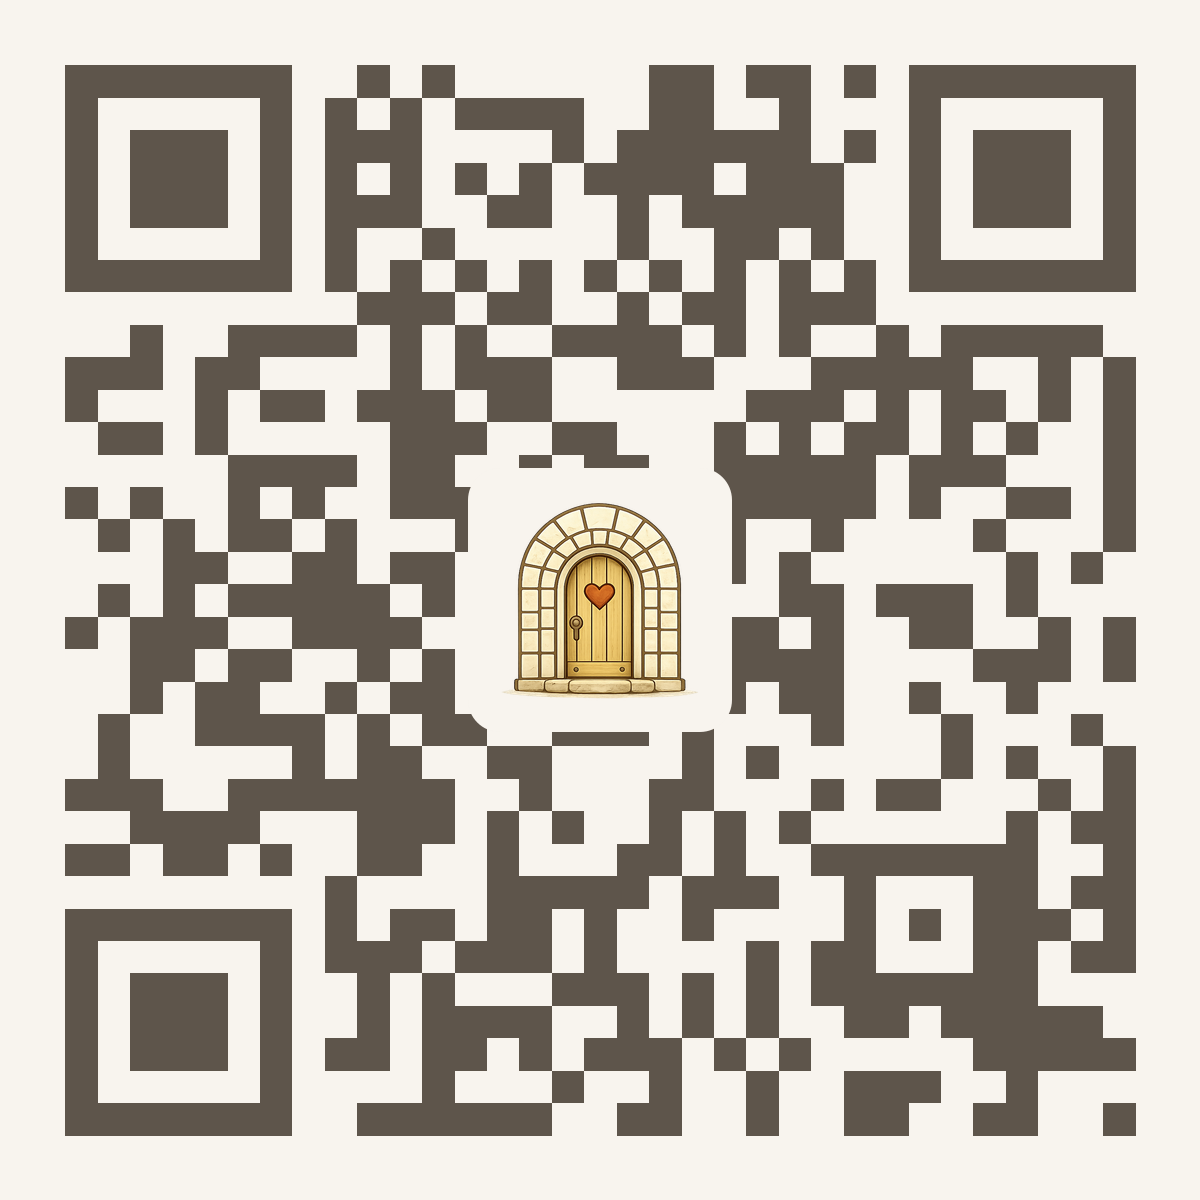
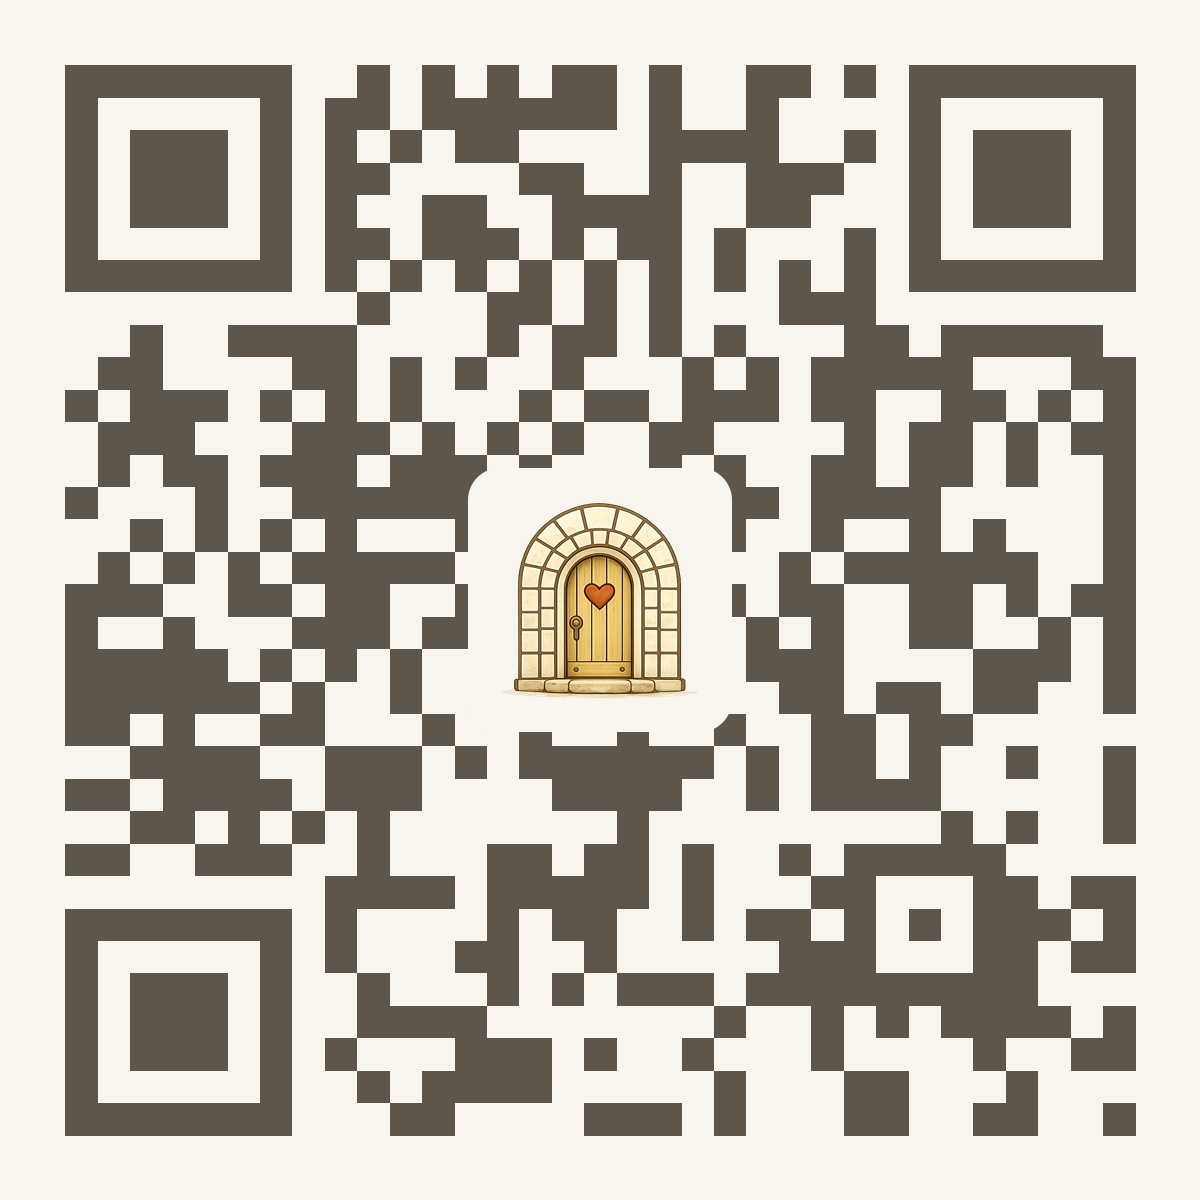
fix: apuntar el QR a .com y actualizar el H1 del hero

diff --git a/src/app/(site)/page.js b/src/app/(site)/page.js
@@ -17,9 +17,9 @@ export default function Home() {
         <div className="hero__content">
 
           <h1 className="hero__title">
-            Diseño y desarrollo web
+            Tu puerta a internet,
             <br />
-            <span className="hero__title-accent">humano y cercano.</span>
+            <span className="hero__title-accent">humana y cercana.</span>
           </h1>
 
           <p className="hero__slogan">

diff --git a/monscripts/generate-qr.js b/monscripts/generate-qr.js
@@ -33,7 +33,7 @@ const sharp = require("sharp")
 
 const CONFIG = {
   /** Destination URL encoded in the QR code. Change this when the landing page moves. */
-  url: "https://vecinadigital.es/hola",
+  url: "https://www.vecinadigital.com/hola",
 
   /** QR code width and height in pixels (print resolution). */
   qrSize: 1200,
